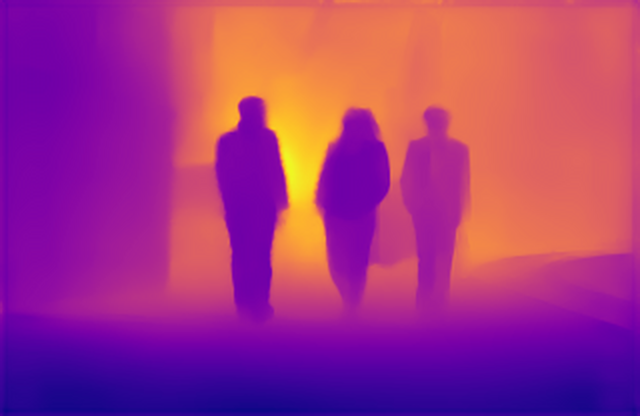
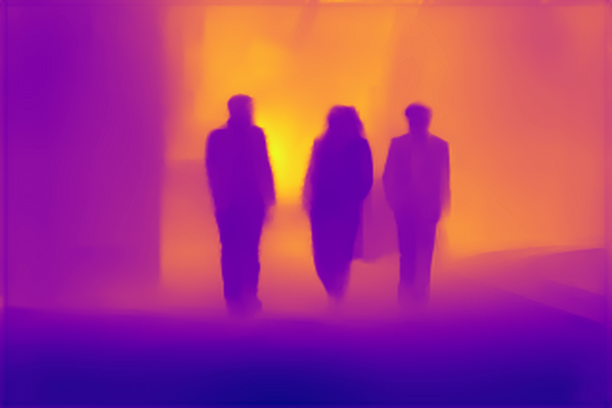
Update

diff --git a/utils.py b/utils.py
@@ -8,6 +8,7 @@ import time
 from keyboard_bindings import keyboard_numbers_binding as keyboard_binding
 from tkinter import Tk, Label, Button
 from tkinter import filedialog
+import copy
 
 
 def initialize_model_logger():
@@ -113,36 +114,64 @@ def load_images_using_tkinter(logger_model):
     logger_model.info("Loaded Images: " + str(images)[:])
     return images
 
+def load_demo_images(logger_model, model_name):
+    """
+    (Created Function)
+    Load the demo images.
+    """
 
-def load_images(image_files, logger_model):
+    images = []
+    dir = os.path.dirname(__file__)
+    # Output directory for images
+    input_dir = os.path.join(dir, 'input_images', 'demo_images')
+    if model_name == "nyu.h5":
+        image_path1 = input_dir + "//people.png"
+        image_path2 = input_dir + "//1_image.png"
+
+    elif model_name == "kitti.h5":
+        image_path1 = input_dir +"//000296.png"
+        image_path2 = input_dir + "//000290.png"
+
+    images = [image_path1, image_path2]
+
+    logger_model.info("Loade Image: " + str(images)[:])
+
+    return images
+
+def load_images(image_files, logger_model, model_name):
     """"
-    (Modified function)
+    (Created function)
     -> Added the option to load images of different sizes (before all input images had to be the same size).
-    -> The encoder architecture expects the image dimensions to be divisible by 32. Hence for the images where this
-    is not the case, we upscale the width/height to the closest number divisible by 32.
     -> Makes sure to convert non-RGB format images to the RGB standard format (3 channels) - Requirement for the model.
       (Palettised colored images can also be used)
-    -> Before you were only able to input images with the same width and height. Now it doesn't matter anymore.
+    -> Resize the input image(s) to the image sizes used during training/testing (nyu - (640, 480), kitti - (1280, 384)).
+       The resulting image(s) will be used as input for depth inference.
+    -> Also returns the input image with original size after converting to RGB format in order to be used later as input
+     for YOLO.
     """
     loaded_images = []
     loaded_images_name = []
+    org_images = []
+    inputs_shape = []
     for file in image_files:
         x = np.array(Image.open(file))
         parsed_file_name = file.split("/")
         input_image_name = parsed_file_name[-1]
         loaded_images_name.append(input_image_name)
         x = convert_to_rgb_format(x,file, logger_model, input_image_name)
-        x = resize_input_image(x, logger_model, input_image_name)
+        input_image = copy.deepcopy(x)
+        org_images.append(np.stack(input_image))
+        x, input_shape = resize_input_image(x, logger_model, input_image_name, model_name)
         loaded_images.append(np.stack(x))
+        inputs_shape.append(input_shape)
 
-    #return np.stack(loaded_images, axis=0)
-    return loaded_images, loaded_images_name
+    return loaded_images, loaded_images_name, inputs_shape, org_images
 
 
 def convert_to_rgb_format(image,image_path, logger_model, input_image_name):
     """
     Makes sure to convert non-RGB format images to the RGB standard format (3 channels) - Requirement for the model.
-      (Palettised colored images can also be used)
+    (Palettised colored images can also be used)
     (Created function)
     """
 
@@ -155,36 +184,37 @@ def convert_to_rgb_format(image,image_path, logger_model, input_image_name):
         image = np.clip(np.asarray(Image.open(image_path), dtype=float) / 255, 0, 1)
     return image
 
-def resize_input_image(image, logger_model, input_image_name):
+def resize_input_image(image, logger_model, input_image_name, pretrained_model):
     """"
-    The encoder architecture expects the image dimensions to be divisible by 32. Hence for the images where this
-    is not the case, we upscale the width/height to the closest number divisible by 32.
-    Upscaling method used: biliniar
+    Resize the input image(s) to the image sizes used during training/testing (nyu - 640, 480, kitti - 1280, 384).
+    The resulting image(s) will be used as input for depth inference.
+    The encoder architecture also expects the image dimensions to be divisible by 32.
+    Resizing method used: bicubic (to retain as many details as possible)
     (Created Function)
     """
-    width, height, channels = image.shape
-    input_shape = (width, height)
-    output_width = width
-    output_height = height
+    height , width, channels = image.shape
+    input_shape = (height, width)
     is_input_image_upscaled = 0
 
-    if width % 32 != 0:
-        output_width = width + (32 - width % 32)
+    if pretrained_model == "nyu.h5":
+        output_shape = (480, 640)
+    elif pretrained_model == 'kitti.h5':
+        output_shape = (384, 1280)
+
+    if width % output_shape[1] != 0:
+        image = resize(image, output_shape, order=3, preserve_range=True, mode='reflect', anti_aliasing=True)
         is_input_image_upscaled = 1
 
-    if height % 32 != 0:
-        output_height = height + (32 - height % 32)
+    if height % output_shape[0] != 0:
+        image = resize(image, output_shape, order=3, preserve_range=True, mode='reflect', anti_aliasing=True)
         is_input_image_upscaled = 1
-
-    output_shape = (output_width, output_height)
-
-    image = resize(image, output_shape, order=1, preserve_range=True, mode='reflect', anti_aliasing=True)
 
     if is_input_image_upscaled == 1:
-        logger_model.info(input_image_name + " has been upscaled from " + str(input_shape) + " to " + str(output_shape) +
-        ".The encoder architecture expects the image dimensions to be divisible by 32.")
+        logger_model.info(
+            input_image_name + " has been resized from " + str(input_shape) + " to " + str(output_shape) +
+            " in order to be used as input for the depth inference.")
 
-    return image
+    return image,input_shape
 
 
 def predict(model, images, logger_model, loaded_input_images_name, minDepth=10, maxDepth=1000, batch_size=1):
@@ -196,7 +226,6 @@ def predict(model, images, logger_model, loaded_input_images_name, minDepth=10, 
     output_images = []
     i = 0
     for image in images:
-
         logger_model.info("Currently predicting " + loaded_input_images_name[i] + " ...")
         if len(image.shape) < 3: image = np.stack((image,image,image), axis=2)
         if len(image.shape) < 4: image = image.reshape((1, image.shape[0], image.shape[1], image.shape[2]))
@@ -208,7 +237,7 @@ def predict(model, images, logger_model, loaded_input_images_name, minDepth=10, 
     return output_images
 
 
-def output_depth_images(outputs, logger_model, inputs=None, loaded_input_images_name = None):
+def output_depth_images(outputs, logger_model, inputs_shape, inputs=None, loaded_input_images_name = None):
     """
     (Created function)
     Output the depth images along with the input images to the output_images folder.
@@ -251,7 +280,7 @@ def output_depth_images(outputs, logger_model, inputs=None, loaded_input_images_
         logger_model.info(depth_image_name + " finished processing! Image can be found in the output_images folder.")
 
         # Output the Colored Depth Image(width, height are the same as the input image)
-        upscaled_colored_depth_image_shape = (2 * rescaled.shape[0], 2 * rescaled.shape[1])
+        upscaled_colored_depth_image_shape = inputs_shape[index]
         upscaled_colored_depth_image = np.uint8((resize(colored_depth_image, upscaled_colored_depth_image_shape, order=3, preserve_range=True, mode='reflect', anti_aliasing=True)))
         im4 = Image.fromarray(upscaled_colored_depth_image)
         upscaled_colored_depth_image_name = name_pic + "_upscaled_depth_colored.png"
@@ -259,10 +288,9 @@ def output_depth_images(outputs, logger_model, inputs=None, loaded_input_images_
         logger_model.info(upscaled_colored_depth_image_name + " finished processing! Image can be found in the output_images folder.")
 
         # Output the "black/white" Depth Image(width, height are the same as the input image)
-        upscaled_depth_image_shape = (2 * outputs[index][0].shape[0], 2 * outputs[index][0].shape[1])
+        upscaled_depth_image_shape = inputs_shape[index]
         upscaled_depth_image = np.uint8(to_multichannel(resize(outputs[index][0], upscaled_depth_image_shape, order=3, mode='reflect', anti_aliasing=True)) * 255)
         upscaled_depth_image = upscaled_depth_image[:,:,0]
-        #im5 = Image.fromarray(upscaled_depth_image).convert('L')
         im5 = Image.fromarray(upscaled_depth_image)
         upscaled_depth_image_name = name_pic + "_upscaled_depth.png"
         im5.save(output_dir + "\\" + upscaled_depth_image_name)

diff --git a/run_inference.py b/run_inference.py
@@ -1,33 +1,27 @@
 import os
-import argparse
-
-
-
 os.environ['TF_CPP_MIN_LOG_LEVEL'] = '5'
 from keras.models import load_model
 from layers import BilinearUpSampling2D
 from utils import initialize_model_logger, select_pretrained_model_for_inference, load_images_using_tkinter, load_images, predict,  output_depth_images
-from matplotlib import pyplot as plt
+
+"""
+Written almost fromm scratch.
+"""
 
 
 # Initializing the logger
 logger_model = initialize_model_logger()
 
 # UI that allows the user to select the pre-trained model on which to run inference.
-model_name = select_pretrained_model_for_inference(logger_model)
-
-# Argument Parser
-parser = argparse.ArgumentParser(description='High Quality Monocular Depth Estimation via Transfer Learning')
-parser.add_argument('--model', default=model_name, type=str, help='Trained Keras model file.')
-args = parser.parse_args()
+depth_model_name = select_pretrained_model_for_inference(logger_model)
 
 # Custom object needed for inference and training
 custom_objects = {'BilinearUpSampling2D': BilinearUpSampling2D, 'depth_loss_function': None}
 
-# Load model into GPU / CPU
-model = load_model(args.model, custom_objects=custom_objects, compile=False)
+# Load depth model into GPU / CPU
+depth_model = load_model(depth_model_name, custom_objects=custom_objects, compile=False)
 
-logger_model.info('Model loaded ({0}).'.format(args.model))
+logger_model.info('Model loaded ({0}).'.format(depth_model_name))
 
 # Allow the user to load the input images
 images = load_images_using_tkinter(logger_model)
@@ -37,11 +31,10 @@ while not images:
     images = load_images_using_tkinter(logger_model)
 
 # Input images. The functions has been modified to load images of different sizes.
-# Check load_images in utils.py
-inputs, loaded_input_images_name = load_images(images, logger_model)
+model_inputs, loaded_input_images_name, inputs_shape, org_imgs = load_images(images, logger_model, depth_model_name)
 
-# Compute results
-outputs = predict(model, inputs, logger_model, loaded_input_images_name)
+# Predict the depth images.
+outputs = predict(depth_model, model_inputs, logger_model, loaded_input_images_name)
 
 # Output in the output_images folder the input/depth image
-output_depth_images(outputs.copy(), logger_model, inputs.copy(), loaded_input_images_name)
+output_depth_images(outputs.copy(), logger_model, inputs_shape, org_imgs.copy(), loaded_input_images_name)

diff --git a/run_inference_args.py b/run_inference_args.py
@@ -1,0 +1,54 @@
+import os
+os.environ['TF_CPP_MIN_LOG_LEVEL'] = '5'
+from keras.models import load_model
+from layers import BilinearUpSampling2D
+from utils import initialize_model_logger, load_demo_images, load_images_using_tkinter, load_images, predict,  output_depth_images
+import argparse
+
+"""
+Written almost fromm scratch.
+"""
+
+# Argument Parser
+parser = argparse.ArgumentParser(description='Image Depth Estimator')
+parser.add_argument('--model', required=True, choices=['nyu.h5', 'kitti.h5'], type=str, help='Choose the trained model (nyu.h5 or kitti.h5).')
+parser.add_argument('--mode', required=True, choices=['demo', 'full'], type=str, help = "Allow the user to select between the following 2 modes:"
+                                                                                          " 1. demo - loads a specific image as input;"
+                                                                                          " 2. full - allow the user to select images from any folder as input;")
+args = parser.parse_args()
+
+# Initializing the logger
+logger_model = initialize_model_logger()
+
+# Loads the depth model name
+depth_model_name = args.model
+
+# Custom object needed for inference and training
+custom_objects = {'BilinearUpSampling2D': BilinearUpSampling2D, 'depth_loss_function': None}
+
+# Load depth model into GPU / CPU
+depth_model = load_model(depth_model_name, custom_objects=custom_objects, compile=False)
+
+logger_model.info('Model loaded ({0}).'.format(depth_model_name))
+
+if args.mode == "demo":
+    # Loads the demo images.
+    images = load_demo_images(logger_model, args.model)
+
+
+elif args.mode == "full":
+    # Allow the user to load the input images from a file
+    images = load_images_using_tkinter(logger_model)
+
+    while not images:
+        logger_model.error("No images selected! Please try again.")
+        images = load_images_using_tkinter(logger_model)
+
+# Input images. The functions has been modified to load images of different sizes.
+model_inputs, loaded_input_images_name, inputs_shape, org_imgs = load_images(images, logger_model, depth_model_name)
+
+# Predict the depth images.
+outputs = predict(depth_model, model_inputs, logger_model, loaded_input_images_name)
+
+# Output in the output_images folder the input/depth image
+output_depth_images(outputs.copy(), logger_model, inputs_shape, org_imgs.copy(), loaded_input_images_name)

diff --git a/test_utils.py b/test_utils.py
@@ -4,7 +4,9 @@ from utils import initialize_model_logger, resize_input_image, convert_to_rgb_fo
 import numpy as np
 from PIL import Image
 
-
+"""
+Created .py
+"""
 
 class TestUtils(unittest.TestCase):
 
@@ -18,14 +20,21 @@ class TestUtils(unittest.TestCase):
         self.image1_path = os.path.join(dir, 'images_unittest', "img1.png")
         self.image2_path = os.path.join(dir, 'images_unittest', "img2.png")
         self.image3_path = os.path.join(dir, 'images_unittest', "img3.png")
+        self.image4_path = os.path.join(dir, 'images_unittest', "img4.png")
+
 
     def test_resize_input_image(self):
         """
-        Check if the upscaled resized image is compatible with the dimension requirements of the encoder architecture.
+        Check if the resized input image resolution is the same as the training/test images.
         """
         image1 = np.clip(np.asarray(Image.open(self.image1_path), dtype=float)/255, 0, 1)
-        image1_resized = resize_input_image(image1, self.logger_model, "img1.png")
-        self.assertEqual([image1_resized.shape[0], image1_resized.shape[1]],[608,832], "Image dimensions don't match!")
+        self.logger_model.propagate = False
+        image1_resized, _ = resize_input_image(image1, self.logger_model, "img1.png", "nyu.h5")
+        image4 = np.clip(np.asarray(Image.open(self.image4_path), dtype=float) / 255, 0, 1)
+        image4_resized, _ = resize_input_image(image4, self.logger_model, "img4.png", "kitti.h5")
+
+        self.assertEqual([image1_resized.shape[0], image1_resized.shape[1]],[480,640], "Image dimensions don't match!")
+        self.assertEqual([image4_resized.shape[0], image4_resized.shape[1]], [384,1280],"Image dimensions don't match!")
 
     def test_RGB_conversion(self):
         """
@@ -40,11 +49,7 @@ class TestUtils(unittest.TestCase):
 
         self.assertEqual([image2.ndim,image2.shape[-1]], [3, 3], "Unable to convert the img2.png to RGB format")
         self.assertEqual([image3.ndim, image3.shape[-1]], [3, 3], "Unable to convert the img3.png to RGB format")
-
-
-
-
-
+        self.logger_model.handlers.pop()
 
 
 

diff --git a/test_pretrained_models.py b/test_pretrained_models.py
@@ -1,6 +1,11 @@
 import unittest
 import os
 
+
+"""
+Created .py
+"""
+
 class TestPretrainedModels(unittest.TestCase):
 
     def test_models(self):
